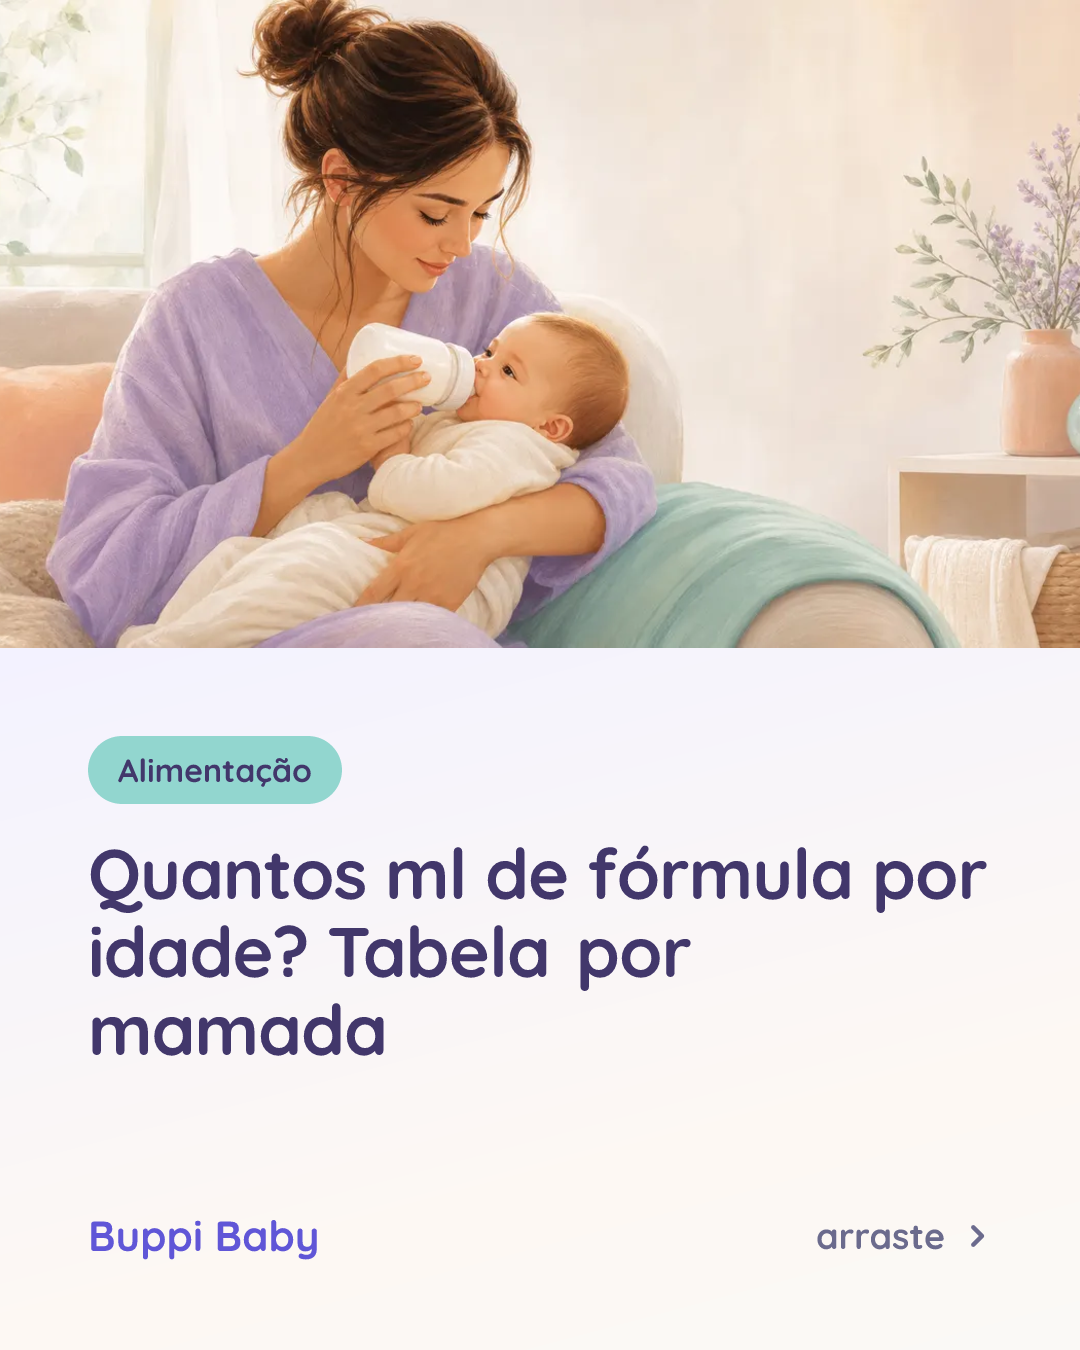
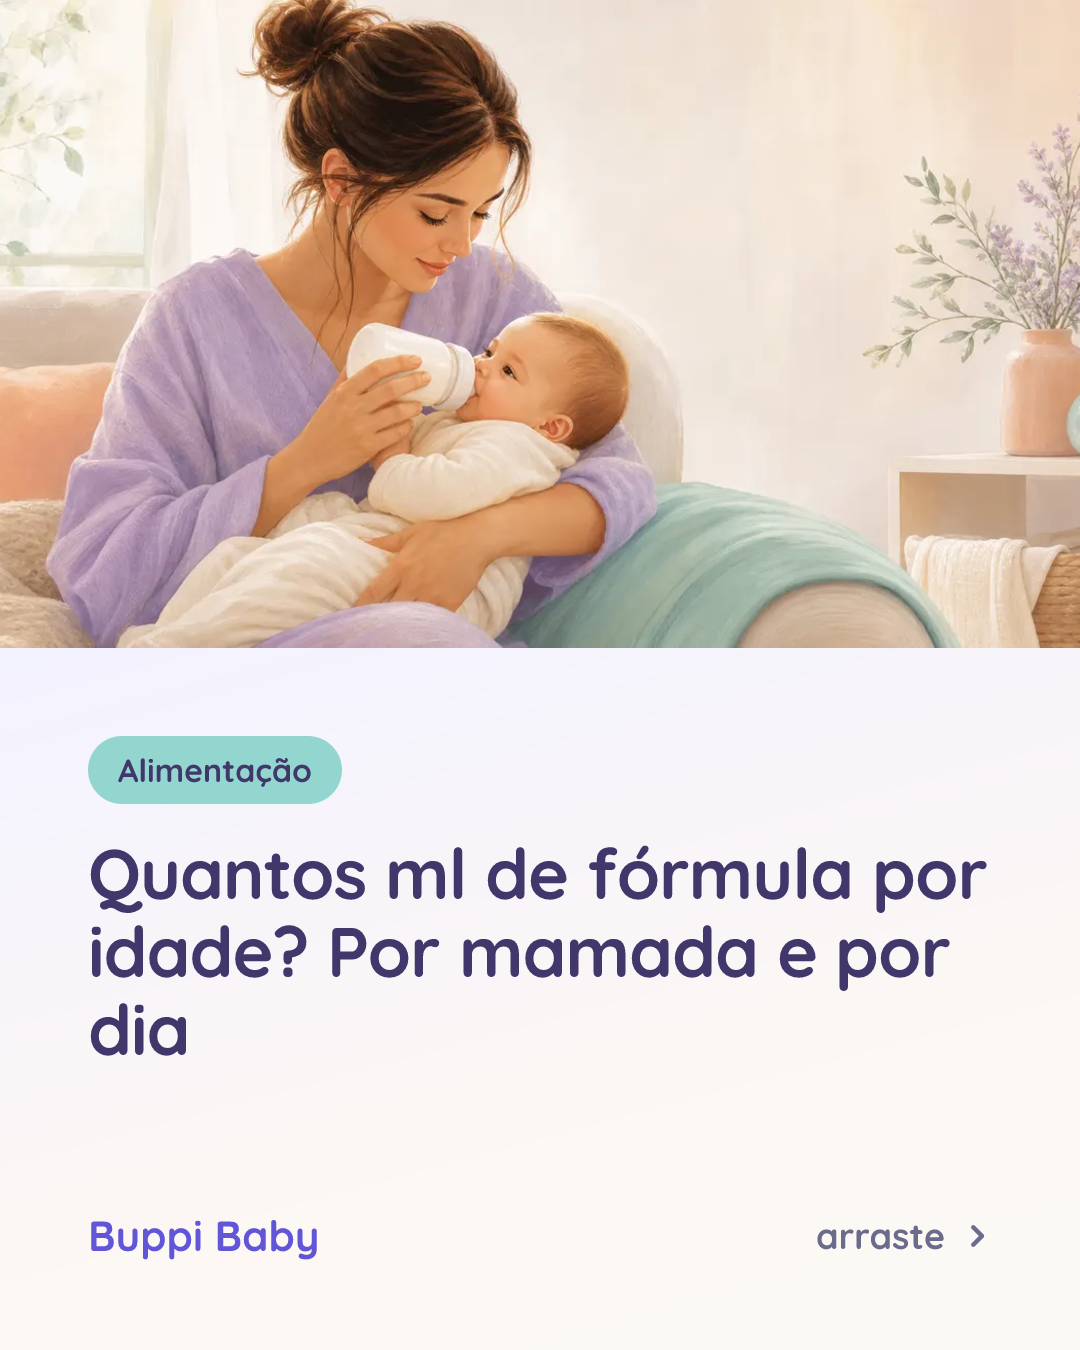
seo(blog): reinforce formula page for age-specific formula queries
GSC: the page ranks pos 7-11 for a big cluster (bebê de 2/3/4 meses quantos ml,
recém-nascido/15 dias, por dia) at ~0% CTR. Add a top 'resposta rápida por idade'
block mirroring the exact query phrasing + 3 FAQs (2 meses, recém-nascido/15 dias,
total por dia), and sharpen title/description. pt-BR only (anchor page).

Also cap the IG carousel at 8 FAQ slides (cover+8+CTA = 10, IG's max).

Changed region(s): [[0.0917, 0.6844, 0.8861, 0.8089]]

diff --git a/scripts/instagram/carousel.ts b/scripts/instagram/carousel.ts
@@ -309,10 +309,13 @@ async function main() {
     font("Outfit-600.woff", "Outfit", 600),
   ];
 
+  // Instagram carousels allow at most 10 images. Keep cover + up to 8 FAQ + CTA.
+  const MAX_FAQ = 8;
+  const faqShown = faq.slice(0, MAX_FAQ);
   const coverUri = coverImageDataUri(id, W, IMG_H);
   const slides: Node[] = [coverSlide(trim(title, 120), catLabel, locale, coverUri)];
-  const total = faq.length;
-  faq.forEach((item, i) => {
+  const total = faqShown.length;
+  faqShown.forEach((item, i) => {
     slides.push(tipSlide(i + 1, total, trim(item.question, 160), trim(item.answer, 600), catLabel));
   });
   slides.push(ctaSlide(READ_MORE[locale] ?? READ_MORE["pt-BR"], url, CTA_APP[locale] ?? CTA_APP["pt-BR"]));
